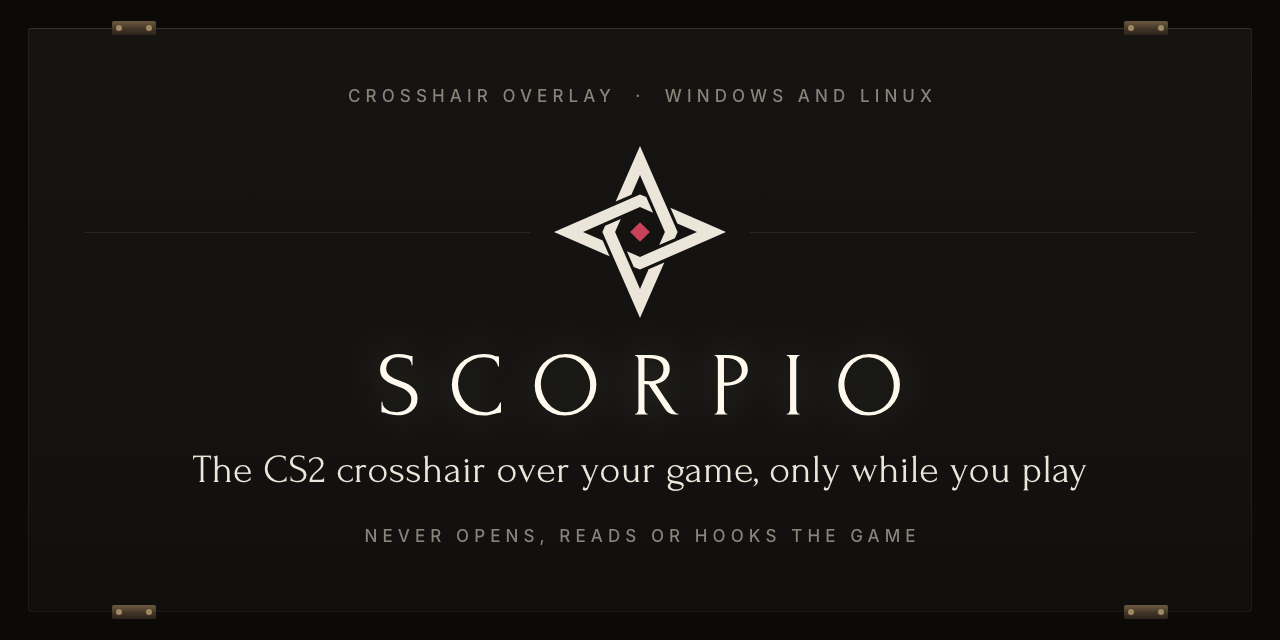
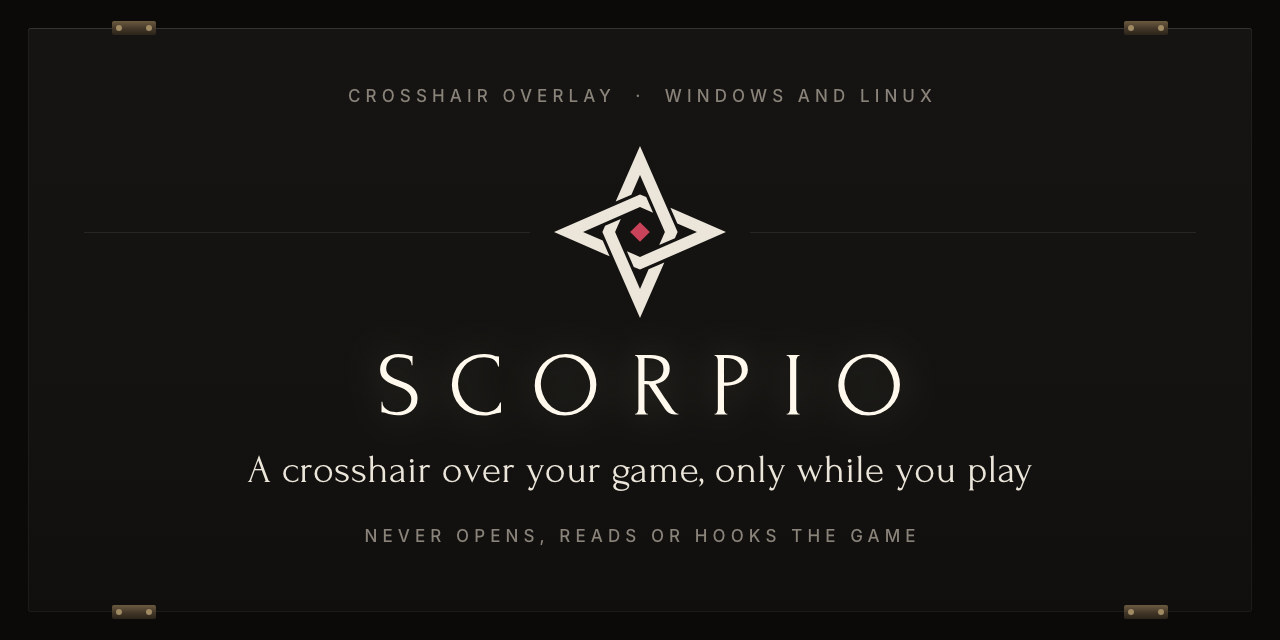
Website: CS2 named only as CS2-based crosshairs and CS2 codes that work
Verified: page and social image regenerated from the generator; grep
shows only those two forms remain on the site and in llms.txt.

Changed region(s): [[0.1562, 0.6875, 0.8438, 0.7812]]

diff --git a/docs/site/index.html b/docs/site/index.html
@@ -3,8 +3,8 @@
 <head>
 <meta charset="utf-8">
 <meta name="viewport" content="width=device-width, initial-scale=1">
-<title>Scorpio: CS2 crosshair overlay for Windows and Linux</title>
-<meta name="description" content="Free crosshair overlay for Windows and Linux. Scorpio draws a CS2 crosshair over your game only while you play, and never touches the game or its anti-cheat.">
+<title>Scorpio: crosshair overlay for Windows and Linux</title>
+<meta name="description" content="Free crosshair overlay for Windows and Linux. Scorpio draws a CS2-based crosshair over your game only while you play, and never touches the game or its anti-cheat.">
 <meta name="robots" content="index, follow, max-image-preview:large, max-snippet:-1">
 <link rel="canonical" href="https://deikus-lxxvii.github.io/Scorpio-Crosshair/">
 <meta name="theme-color" content="#0b0a09">
@@ -19,19 +19,19 @@
 <meta property="og:type" content="website">
 <meta property="og:site_name" content="Scorpio">
 <meta property="og:locale" content="en_GB">
-<meta property="og:title" content="Scorpio: CS2 crosshair overlay for Windows and Linux">
-<meta property="og:description" content="Free crosshair overlay for Windows and Linux. Scorpio draws a CS2 crosshair over your game only while you play, and never touches the game or its anti-cheat.">
+<meta property="og:title" content="Scorpio: crosshair overlay for Windows and Linux">
+<meta property="og:description" content="Free crosshair overlay for Windows and Linux. Scorpio draws a CS2-based crosshair over your game only while you play, and never touches the game or its anti-cheat.">
 <meta property="og:url" content="https://deikus-lxxvii.github.io/Scorpio-Crosshair/">
 <meta property="og:image" content="https://deikus-lxxvii.github.io/Scorpio-Crosshair/og.png">
 <meta property="og:image:type" content="image/png">
 <meta property="og:image:width" content="1280">
 <meta property="og:image:height" content="640">
-<meta property="og:image:alt" content="The Scorpio logo on a stone tablet, with the line: the CS2 crosshair over your game, only while you play">
+<meta property="og:image:alt" content="The Scorpio logo on a stone tablet, with the line: a crosshair over your game, only while you play">
 <meta name="twitter:card" content="summary_large_image">
-<meta name="twitter:title" content="Scorpio: CS2 crosshair overlay for Windows and Linux">
-<meta name="twitter:description" content="Free crosshair overlay for Windows and Linux. Scorpio draws a CS2 crosshair over your game only while you play, and never touches the game or its anti-cheat.">
+<meta name="twitter:title" content="Scorpio: crosshair overlay for Windows and Linux">
+<meta name="twitter:description" content="Free crosshair overlay for Windows and Linux. Scorpio draws a CS2-based crosshair over your game only while you play, and never touches the game or its anti-cheat.">
 <meta name="twitter:image" content="https://deikus-lxxvii.github.io/Scorpio-Crosshair/og.png">
-<meta name="twitter:image:alt" content="The Scorpio logo on a stone tablet, with the line: the CS2 crosshair over your game, only while you play">
+<meta name="twitter:image:alt" content="The Scorpio logo on a stone tablet, with the line: a crosshair over your game, only while you play">
 <script type="application/ld+json">
 {
 	"@context": "https://schema.org",
@@ -44,7 +44,7 @@
 				"Scorpio Crosshair",
 				"Scorpio crosshair overlay"
 			],
-			"description": "A crosshair overlay for PC games on Windows and Linux. Scorpio draws a Counter-Strike 2 crosshair in its own window over the game, shows it only while a game is in front, and never opens, reads, hooks or injects into the game or its anti-cheat.",
+			"description": "A crosshair overlay for PC games on Windows and Linux. Scorpio draws a CS2-based crosshair in its own window over the game, shows it only while a game is in front, and never opens, reads, hooks or injects into the game or its anti-cheat.",
 			"url": "https://deikus-lxxvii.github.io/Scorpio-Crosshair/",
 			"image": "https://deikus-lxxvii.github.io/Scorpio-Crosshair/og.png",
 			"screenshot": [
@@ -80,8 +80,8 @@
 			"featureList": [
 				"Shows the crosshair only while a game is the window in front",
 				"Detects games you added, fullscreen windows, and games installed by Steam, Epic Games, GOG, Ubisoft Connect, EA, Battle.net, Riot, Xbox, Heroic and Lutris",
-				"Counter-Strike 2 crosshair settings with five static styles",
-				"Imports and exports CS2 crosshair share codes",
+				"CS2-based crosshairs with five static styles",
+				"CS2 crosshair codes work in Scorpio, in and out",
 				"Thickness in half steps and an outline of 1 to 6 pixels",
 				"13 pro player crosshairs",
 				"A crosshair per game and saved crosshairs",
@@ -115,10 +115,10 @@
 				},
 				{
 					"@type": "Question",
-					"name": "How do I use a CS2 crosshair code outside CS2?",
+					"name": "Do CS2 crosshair codes work in Scorpio?",
 					"acceptedAnswer": {
 						"@type": "Answer",
-						"text": "Copy the share code in CS2, or from a site that lists pro crosshairs. In Scorpio, open the Crosshair tab and paste the code into Share code. Scorpio draws the same crosshair over any game it detects. A dynamic crosshair is shown in its static resting style."
+						"text": "Yes. Open the Crosshair tab and paste the code into Share code; codes start with CS or CSGO-. Scorpio draws the same crosshair over any game it detects, and Copy gives a code you can paste back. A dynamic crosshair is shown in its static resting style."
 					}
 				},
 				{
@@ -158,7 +158,7 @@
 					"name": "Can I use an image or a custom shape as a crosshair?",
 					"acceptedAnswer": {
 						"@type": "Answer",
-						"text": "No. Scorpio has the crosshair system of CS2 only: five static styles and the settings of CS2."
+						"text": "No. Scorpio's crosshairs are CS2-based only: five static styles and their settings."
 					}
 				},
 				{
@@ -336,7 +336,7 @@ footer{margin-top:160px;border-top:1px solid var(--line)}
 			<span class="inscr" data-t="Scorpio">Scorpio</span>
 			<span class="caps">Crosshair overlay for Windows and Linux</span>
 		</h1>
-		<p class="lede">Scorpio draws a <b>Counter-Strike 2 crosshair</b> in its own window over your game. It shows the crosshair only while a game is in front, and it never opens, reads, hooks or injects into the game or its anti-cheat.</p>
+		<p class="lede">Scorpio draws a <b>CS2-based crosshair</b> in its own window over your game. It shows the crosshair only while a game is in front, and it never opens, reads, hooks or injects into the game or its anti-cheat.</p>
 		<div class="cta">
 			<a class="btn" href="https://github.com/Deikus-LXXVII/Scorpio-Crosshair/releases/latest">Download Scorpio</a>
 			<a class="go" href="https://github.com/Deikus-LXXVII/Scorpio-Crosshair">Read the source on GitHub</a>
@@ -351,13 +351,13 @@ footer{margin-top:160px;border-top:1px solid var(--line)}
 <div class="wrap">
 	<dl class="meta">
 		<div><dt>Systems</dt><dd>Windows 10 and 11. Linux with X11 or XWayland</dd></div>
-		<div><dt>Crosshair</dt><dd>CS2 settings and share codes, five static styles</dd></div>
+		<div><dt>Crosshair</dt><dd>CS2-based, five static styles; CS2 crosshair codes work</dd></div>
 		<div><dt>While it waits</dt><dd>6.9 MB of memory, 0 ms of CPU over 10 s</dd></div>
 		<div><dt>Licence</dt><dd>PolyForm Noncommercial 1.0.0, source-available</dd></div>
 	</dl>
 	<nav class="toc" aria-label="Contents">
 		<a href="#games"><i>01</i>Only over games</a>
-		<a href="#crosshair"><i>02</i>The CS2 crosshair</a>
+		<a href="#crosshair"><i>02</i>The crosshair</a>
 		<a href="#controls"><i>03</i>Controls</a>
 		<a href="#obs"><i>04</i>OBS</a>
 		<a href="#safety"><i>05</i>Anti-cheat safety</a>
@@ -382,12 +382,12 @@ footer{margin-top:160px;border-top:1px solid var(--line)}
 <section class="block flip wrap" id="crosshair" aria-labelledby="crosshair-h">
 	<div class="copy">
 		<p class="caps">The crosshair</p>
-		<h2 id="crosshair-h">The crosshair from CS2, with its share codes</h2>
-		<p>Paste a <b>CS2 or CS:GO share code</b> and Scorpio draws that crosshair. Copy gives a code that CS2 imports. There are five static styles and the settings of CS2: length, thickness, gap, centre dot, T shape, colour, opacity and outline.</p>
-		<p>Two things are finer than in CS2. Thickness moves in <b>half steps</b>, and the outline can be <b>1 to 6 pixels</b> wide.</p>
+		<h2 id="crosshair-h">CS2-based crosshairs, and CS2 codes work</h2>
+		<p>Paste a <b>CS2 crosshair code</b> and Scorpio draws that crosshair; <b>Copy</b> gives a code you can paste back. There are five static styles with length, thickness, gap, centre dot, T shape, colour, opacity and outline.</p>
+		<p>Two things are finer than usual. Thickness moves in <b>half steps</b>, and the outline can be <b>1 to 6 pixels</b> wide.</p>
 		<p>Scorpio includes the crosshairs of 13 pro players, keeps your saved crosshairs, and gives an added game its own crosshair. It centres the crosshair exactly on the monitor of the game.</p>
 	</div>
-	<figure class="shot"><img src="images/scorpio-saved-and-pro-crosshairs.webp" width="1960" height="1400" loading="lazy" decoding="async" alt="Scorpio Crosshair tab: a green CS2 crosshair in the preview at 4x, its share code, four saved crosshairs and pro player crosshairs"></figure>
+	<figure class="shot"><img src="images/scorpio-saved-and-pro-crosshairs.webp" width="1960" height="1400" loading="lazy" decoding="async" alt="Scorpio Crosshair tab: a green crosshair in the preview at 4x, its share code, four saved crosshairs and pro player crosshairs"></figure>
 </section>
 
 <section class="block wrap" id="controls" aria-labelledby="controls-h">
@@ -487,12 +487,12 @@ footer{margin-top:160px;border-top:1px solid var(--line)}
 	<div class="obj faq">
 		<div><h3>Is a crosshair overlay bannable?</h3><p>It depends on the game's rules, and no overlay can promise that you will never be banned. Anti-cheats look for programs that read or change a game. Scorpio does neither. It is a separate transparent window on top of the game, and it never opens the game's process, reads its memory, hooks it, injects code or sends input. A game's terms can still forbid external crosshairs, so check the rules of the game that you play. No anti-cheat vendor has reviewed or approved Scorpio.</p></div>
 		<div><h3>Does Scorpio work with Vanguard, Easy Anti-Cheat, BattlEye or VAC?</h3><p>Nobody has tested Scorpio against a specific anti-cheat yet, and none of these vendors has reviewed or approved it. What is known is what Scorpio does on your computer: it never touches the game's process or the anti-cheat's process. Keep <b>Hide from screen capture</b> off.</p></div>
-		<div><h3>How do I use a CS2 crosshair code outside CS2?</h3><p>Copy the share code in CS2, or from a site that lists pro crosshairs. In Scorpio, open the <b>Crosshair</b> tab and paste the code into <b>Share code</b>. Scorpio draws the same crosshair over any game it detects. A dynamic crosshair is shown in its static resting style.</p></div>
+		<div><h3>Do CS2 crosshair codes work in Scorpio?</h3><p>Yes. Open the <b>Crosshair</b> tab and paste the code into <b>Share code</b>; codes start with <code>CS</code> or <code>CSGO-</code>. Scorpio draws the same crosshair over any game it detects, and <b>Copy</b> gives a code you can paste back. A dynamic crosshair is shown in its static resting style.</p></div>
 		<div><h3>Does Scorpio work on Linux?</h3><p>Scorpio is built for Linux with X11 or XWayland, as an AppImage and a .deb package. It is less proven there than on Windows: the X11 layer has run under a virtual X server, and the full app has not been tested on a Linux desktop or in a game yet. Native Wayland windows are not supported.</p></div>
 		<div><h3>Does the crosshair show on my stream or recording?</h3><p>With OBS Display Capture it does, because Display Capture records the screen. With OBS Game Capture it does not, until you add Scorpio's Browser source. The setup is five steps and is described on this page.</p></div>
 		<div><h3>Why does the crosshair not show over my game?</h3><p>First look at the title bar of the settings window. If it says "Hidden by shortcut", press the hide shortcut again. If Scorpio does not see the window as a game, add the game on the <b>Games</b> tab. If the game runs in exclusive fullscreen, switch it to borderless or windowed fullscreen, because Windows may not draw other windows over an exclusive fullscreen game. On Linux, Scorpio sees only X11 windows.</p></div>
 		<div><h3>Does Scorpio lower my frame rate or add input lag?</h3><p>Scorpio does not touch the game or its input. While it waits, it uses 0 ms of CPU time over 10 seconds and 6.9 MB of memory. Its effect on the frame rate inside a running game has not been measured yet.</p></div>
-		<div><h3>Can I use an image or a custom shape as a crosshair?</h3><p>No. Scorpio has the crosshair system of CS2 only: five static styles and the settings of CS2.</p></div>
+		<div><h3>Can I use an image or a custom shape as a crosshair?</h3><p>No. Scorpio's crosshairs are CS2-based only: five static styles and their settings.</p></div>
 		<div><h3>Does Scorpio collect data or go online?</h3><p>Scorpio has no telemetry and no account. It makes one kind of request: the update check to its releases on GitHub, and the download of an update. With automatic updates off, it checks only when you click <b>Check for updates</b>. The OBS source listens on your own computer only, and only while it is on.</p></div>
 		<div><h3>Is Scorpio open source?</h3><p>The source is public, and you can read it, change it and share your own versions for any non-commercial purpose. The licence is PolyForm Noncommercial 1.0.0, which forbids commercial use, so Scorpio is source-available and not open source in the OSI sense.</p></div>
 	</div>
